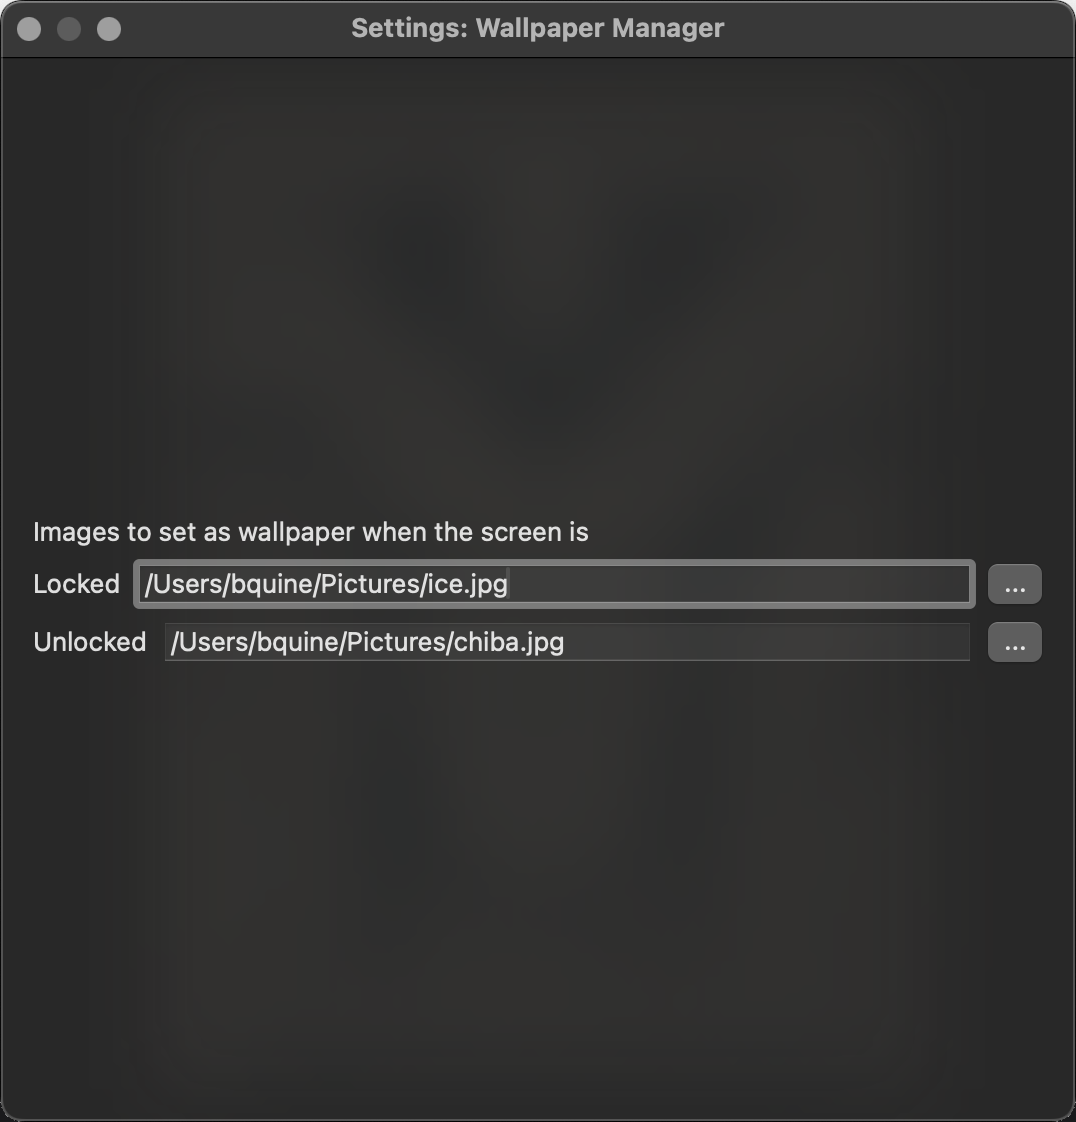
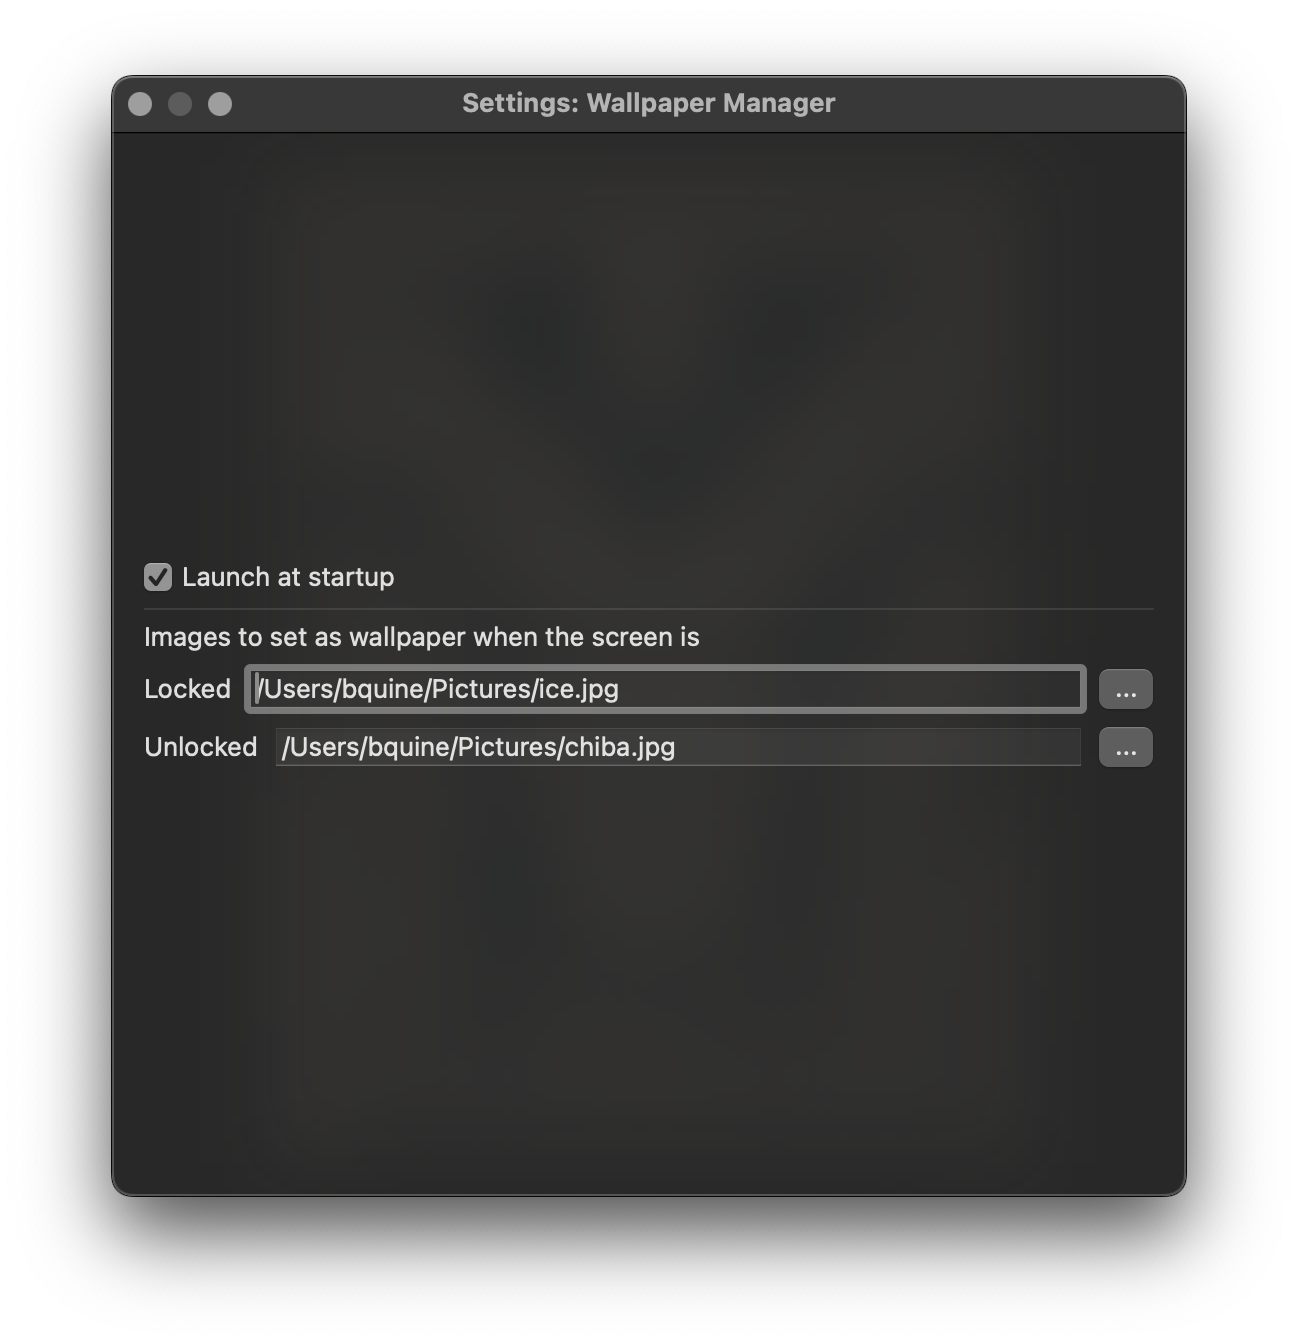
Added option to launch automatically at startup

diff --git a/wallman_app/SettingsView.swift b/wallman_app/SettingsView.swift
@@ -7,10 +7,12 @@
 
 import SwiftUI
 import UniformTypeIdentifiers
+import ServiceManagement
 
 struct SettingsView: View {
     @Binding var lockFilePath: String
     @Binding var unlockFilePath: String
+    @AppStorage("launchAtStartup") var launchAtStartup: Bool = false
     @State private var lockFilePickerPresented = false
     @State private var unlockFilePickerPresented = false
 
@@ -25,6 +27,23 @@ struct SettingsView: View {
                     .opacity(0.080)
                 
                 VStack(alignment: .leading) {
+                    Toggle("Launch at startup", isOn: $launchAtStartup)
+                        .onChange(of: launchAtStartup) {
+                            if (launchAtStartup) {
+                                do {
+                                    try SMAppService.mainApp.register()
+                                } catch {
+                                    print(error)
+                                }
+                            } else {
+                                do {
+                                    try SMAppService.mainApp.unregister()
+                                } catch {
+                                    print(error)
+                                }
+                            }
+                        }
+                    Divider()
                     Text("Images to set as wallpaper when the screen is")
                     HStack {
                         TextField("Locked", text: $lockFilePath, prompt: nil)
